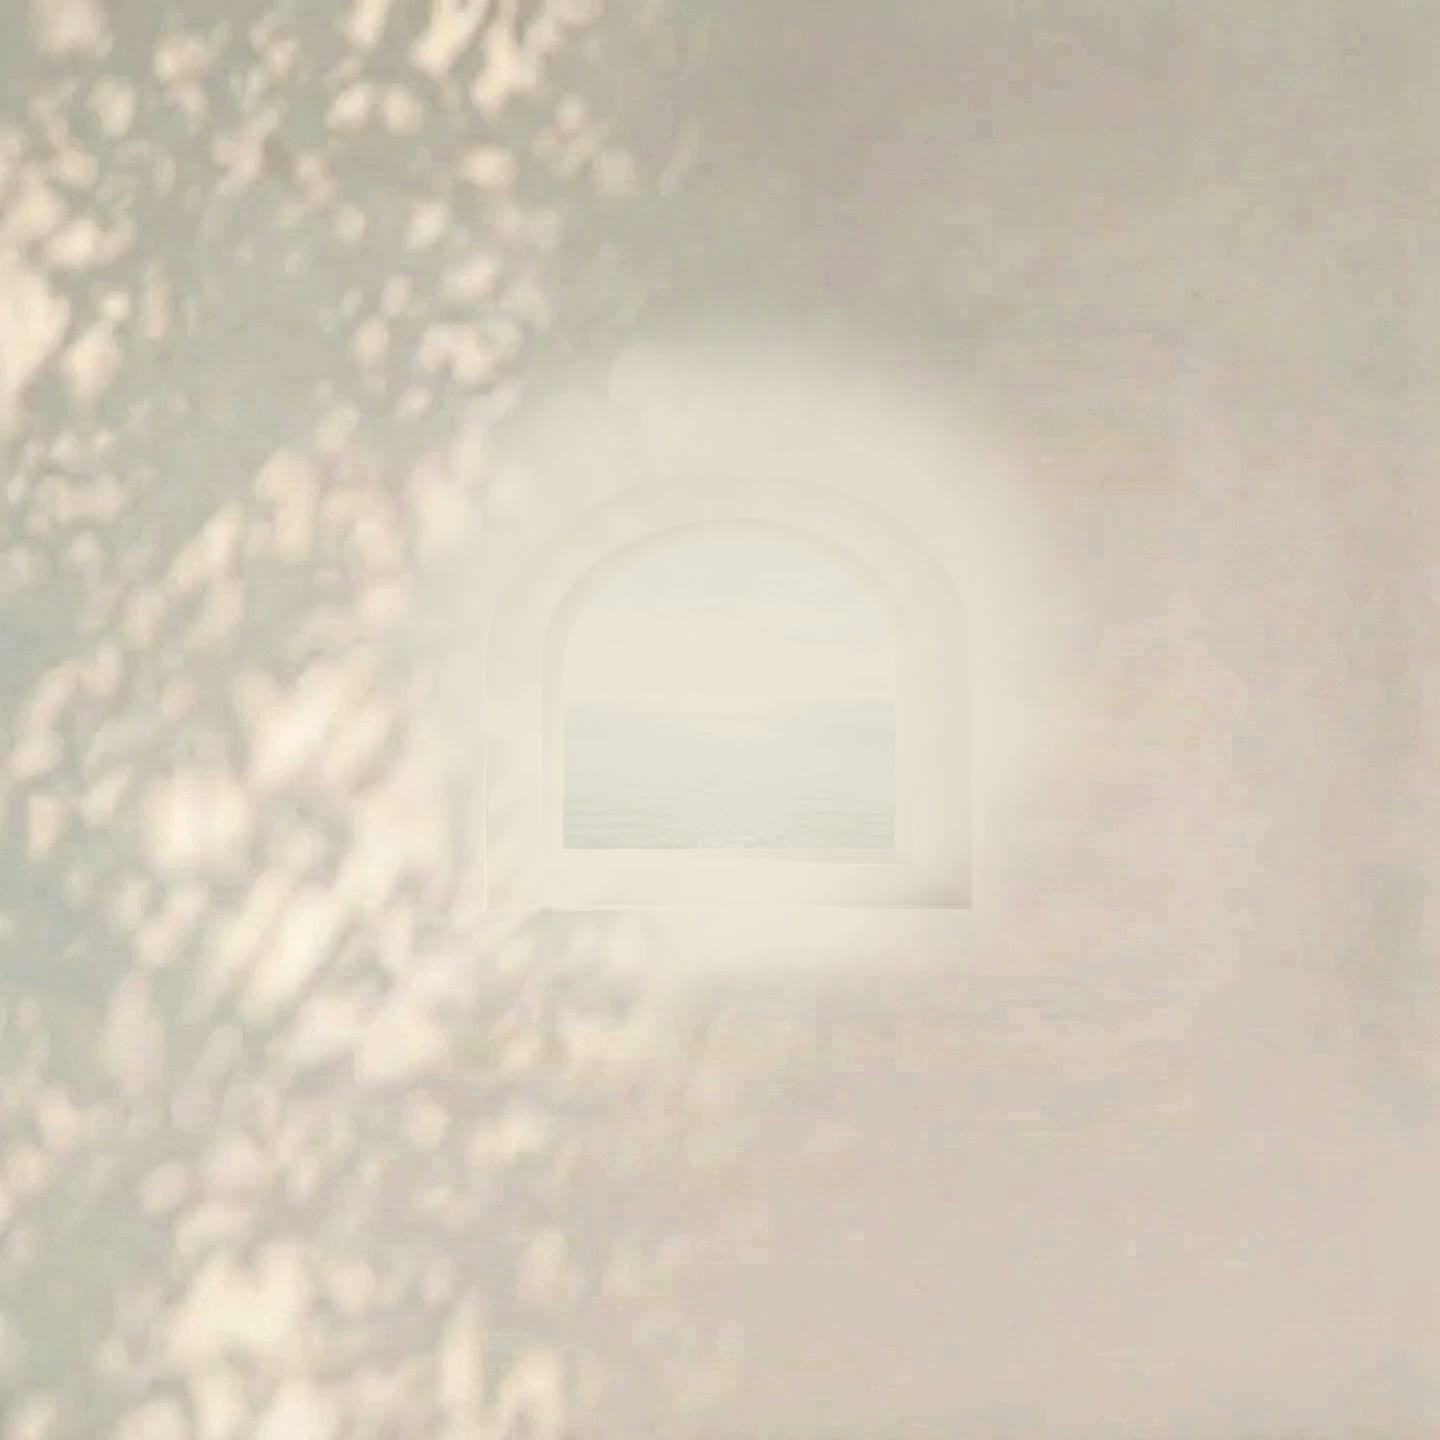
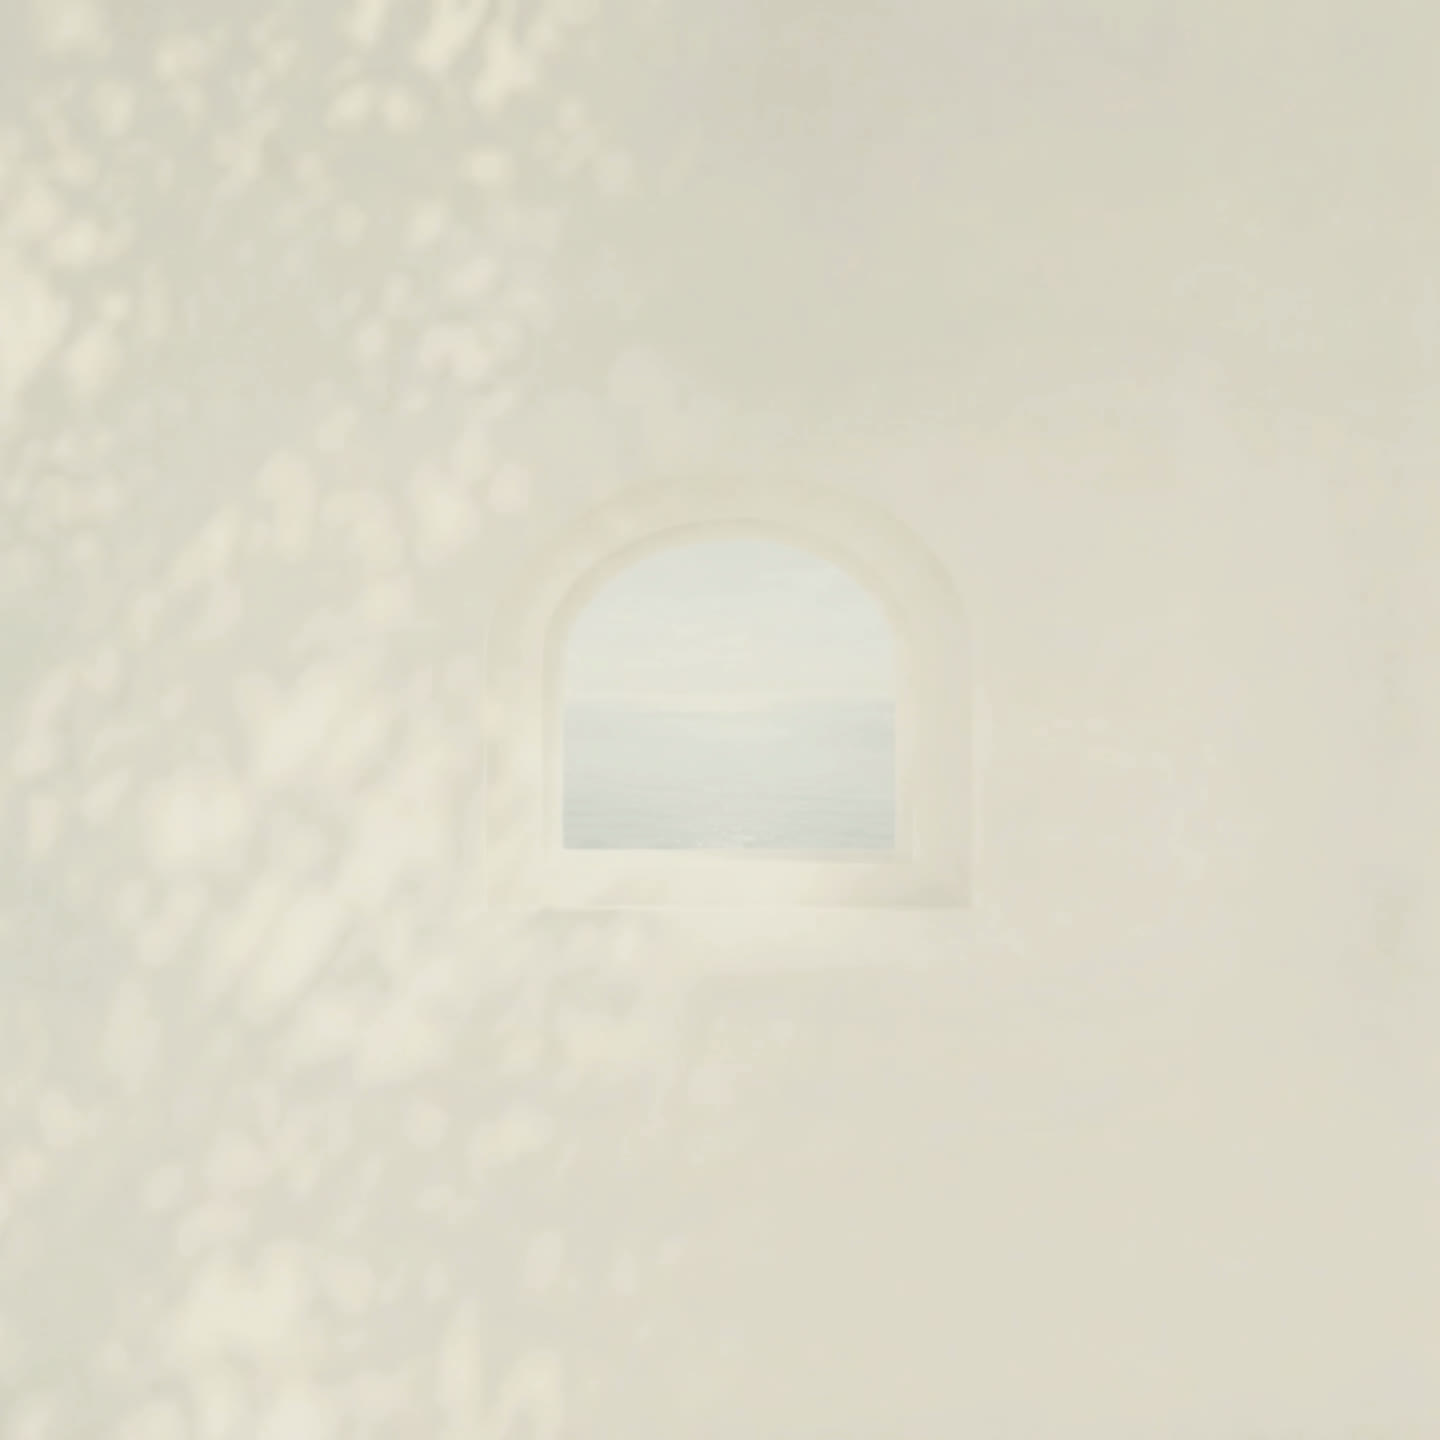
landing: production's memory scene, water slightly more blue — the terminal verdict
Founder (2026-07-09, comparing local v7 fresco against the deployed
site): 'there's inconsistency between local and production… I prefer
the production thing for everything. I just want what's currently in
production, but the water to be slightly more blue. That's it.'

Production is the v6 memory grade (b16cd21, pushed earlier today). v8
rebuilds it with exactly one parameter changed: the blue-targeted cut
relaxed from -0.98 to -0.60 (tested -0.75/-0.60 against the live
poster; -0.75 imperceptible under the 45% cream wash). Because the cut
only ever touched cyans/blues, the wall, shadows, glow, and edge
treatment stay pixel-equal to what is deployed — only the water gains
its quiet blue. The v7 Adam-fresco treatment ('overcorrected… gray')
stays in history at 2f6af0a.

Verified live on both breakpoints against the production poster.

diff --git a/app/components/LandingPage.tsx b/app/components/LandingPage.tsx
@@ -1273,40 +1273,29 @@ export default function LandingPage({ brandClassName = '' }: Props) {
              image's edge cream so any uncovered area at extreme
              aspect ratios still reads as the same wall. */
           background-color: #d8ccb6;
-          /* SEA scene (2026-07-09) — the fresco niche as an open window
-             onto open water, seen through haze. Four passes on the
-             water: v1 saturated blue read fake; v2 whisper-faint read
-             as beige fog ("pretty mid… not elegant") because it had no
-             structure; v3 restored a real sea (hazy horizon, depth
-             gradient, sun glitter) but its blue was still crisp against
-             the cream page; a CSS veil over v3 was rejected ("make the
-             actual colors more muted"). v4-v6 muted global colour in
-             steps and were all still "pasted on top"; v7 is the settled
-             treatment, calibrated against the old Adam fresco the
-             founder named as the reference ("the faint haziness of the
-             Michelangelo image… but for the ocean"). Measured Adam
-             physics: all content within ~6% luminance of the wall, in
-             the wall's own sepia hue (H~35 S~0.10-0.14), niche edges
-             eaten by glow. Recipe (offline, baked into poster + loop
-             from the ungraded source): window zone only (feathered
-             elliptical mask; wall + leaf shadows stay original) →
-             grayscale → luminance compressed into the wall band
-             (curves 0/0.62 0.3/0.73 0.6/0.83 1/0.95 desktop; mobile
-             slightly darker floor, tighter feather, lighter blur) →
-             sepia remap (colorchannelmixer 0.99/0.955/0.875) → gblur
-             1.2 + sigma-30 bloom at 22% so the frame's light bleeds
-             over its own edges → 30% of the band-compressed ORIGINAL
-             colour blended back over the sepia (founder, on pure
-             sepia: "a little bit more blue rather than gray, just a
-             touch" — the blue returns only where the water was blue).
-             The sea is IN the plaster now — a fresco of the ocean,
-             not a view — which is what finally kills the pasted-on
-             read. The lesson pair: fog fails (no
-             structure), crisp blue fails (full chroma); legible
-             structure in the wall's own pigment is the register. (Pharos lighthouse and
-             Creation-of-Adam were cut earlier — image anti-reflex,
-             design.md.) Poster is JPEG: frame zero of the loop, ~10x
-             lighter than PNG for first paint. */
+          /* SEA scene (settled 2026-07-09, v8) — the arch window onto
+             open water as a memory: dissolved edges, everything faint,
+             a quiet blue in the water. The founder's terminal verdict
+             after eight iterations: "I just want what's currently in
+             production, but the water slightly more blue. That's it."
+             Shipped recipe = the v6 "memory" chain with ONLY the
+             blue-cut relaxed, applied to poster + loop from the
+             ungraded source: huesaturation -0.60 on c+b strength 16
+             (v6 was -0.98 — the delta IS the blue), global
+             eq saturation 0.8, shadow lift 0.15, gblur 2.0, sigma-25
+             bloom screen-blended at 35% (edges melt under their own
+             light), 45% wash of the wall's cream (0xdcd6c2). The c+b
+             targeting is what keeps everything except the water
+             pixel-equal to the preferred production scene.
+             Iteration history (v1 crisp blue "fake" → v2 fog "mid" →
+             v3 real sea "crisp" → CSS veil rejected → v4-v5 global
+             mutes → v6 memory (was production) → v7 Adam-fresco
+             sepia "overcorrected… gray") lives in git; the v7 fresco
+             recipe (measured off the old Adam asset) is in commit
+             2f6af0a if the plaster treatment is ever wanted again.
+             (Pharos lighthouse and Creation-of-Adam were cut earlier —
+             image anti-reflex, design.md.) Poster is JPEG: frame zero
+             of the loop, ~10x lighter than PNG for first paint. */
           background-image: url(/sea-arch-wide.jpg);
           /* Desktop landscape viewports crop the wide image evenly;
              75% pulls the niche from right-of-centre to visual middle